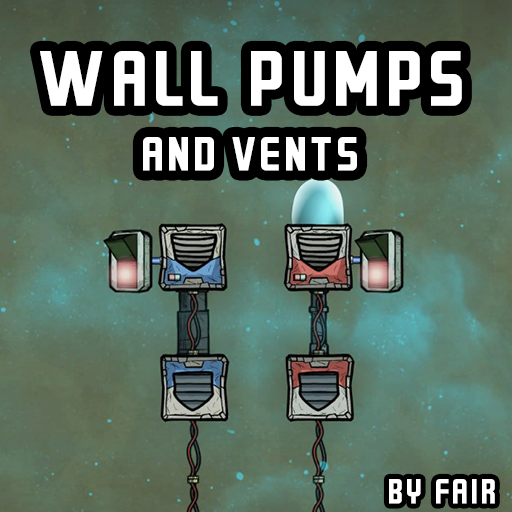
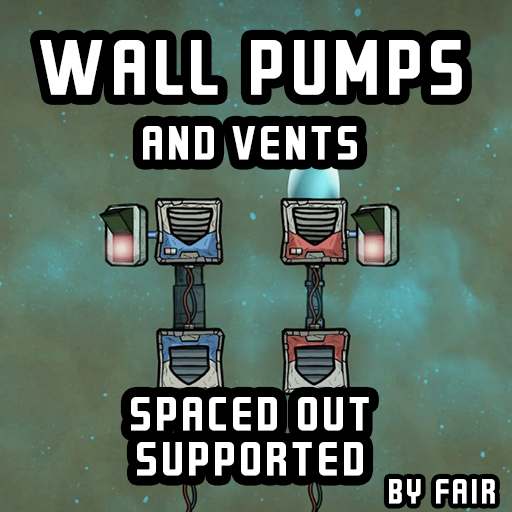
Updates mod to v2.6. Updated to work with new game version 478755.

diff --git a/WallPumps.cs b/WallPumps.cs
@@ -10,7 +10,7 @@ namespace WallPumps
 
         public override void OnLoad(Harmony harmony)
         {
-            Debug.Log(" === WallPumps v. 2.5 OnLoad === ");
+            Debug.Log(" === WallPumps v. 2.6 OnLoad === ");
             harmony.PatchAll();
         }
     }
@@ -20,7 +20,7 @@ namespace WallPumps
     {
         public static void Prefix()
         {
-            Debug.Log(" === WallPumps v. 2.5 Db_Initialize Prefix === ");
+            Debug.Log(" === WallPumps v. 2.6 Db_Initialize Prefix === ");
 
             AddTags.AddStrings(WallPumps.WallMachineRefinedMetals, "Wall Machine Refined Metals");
             AddTags.AddStrings(WallPumps.WallMachineMetals, "Wall Machine Metals");
@@ -29,7 +29,7 @@ namespace WallPumps
 
         public static void Postfix()
         {
-            Debug.Log(" === WallPumps v. 2.5 Db_Initialize Postfix === ");
+            Debug.Log(" === WallPumps v. 2.6 Db_Initialize Postfix === ");
             // Add buildings
             GasWallPump.Setup();
             LiquidWallPump.Setup();
@@ -74,7 +74,7 @@ namespace WallPumps
     //{
     //    public static void Postfix(Game __instance)
     //    {
-    //        Debug.Log(" === WallPumps v. 2.5 OnPrefabInit === ");
+    //        Debug.Log(" === WallPumps v. 2.6 OnPrefabInit === ");
     //    }
     //}
 }

diff --git a/Properties/AssemblyInfo.cs b/Properties/AssemblyInfo.cs
@@ -32,5 +32,5 @@ using System.Runtime.InteropServices;
 // You can specify all the values or you can default the Build and Revision Numbers
 // by using the '*' as shown below:
 // [assembly: AssemblyVersion("1.0.*")]
-[assembly: AssemblyVersion("2.5.0.0")]
+[assembly: AssemblyVersion("2.6.0.0")]
 [assembly: AssemblyFileVersion("1.0.0.0")]

diff --git a/GasWallPump.cs b/GasWallPump.cs
@@ -61,7 +61,6 @@ namespace WallPumps
             def.ObjectLayer = ObjectLayer.Building;
             def.SceneLayer = Grid.SceneLayer.TileMain;
             def.ForegroundLayer = Grid.SceneLayer.TileMain;
-            def.isSolidTile = true;
             return def;
         }
 

diff --git a/GasWallVent.cs b/GasWallVent.cs
@@ -58,7 +58,6 @@ namespace WallPumps
             def.ObjectLayer = ObjectLayer.Building;
             def.SceneLayer = Grid.SceneLayer.TileMain;
             def.ForegroundLayer = Grid.SceneLayer.TileMain;
-            def.isSolidTile = true;
             return def;
         }
 

diff --git a/GasWallVentHighPressure.cs b/GasWallVentHighPressure.cs
@@ -66,7 +66,6 @@ namespace WallPumps
             def.ObjectLayer = ObjectLayer.Building;
             def.SceneLayer = Grid.SceneLayer.TileMain;
             def.ForegroundLayer = Grid.SceneLayer.TileMain;
-            def.isSolidTile = true;
             return def;
         }
 

diff --git a/LiquidWallPump.cs b/LiquidWallPump.cs
@@ -61,7 +61,6 @@ namespace WallPumps
             def.ObjectLayer = ObjectLayer.Building;
             def.SceneLayer = Grid.SceneLayer.TileMain;
             def.ForegroundLayer = Grid.SceneLayer.TileMain;
-            def.isSolidTile = true;
             return def;
         }
 

diff --git a/LiquidWallVent.cs b/LiquidWallVent.cs
@@ -58,7 +58,6 @@ namespace WallPumps
             def.ObjectLayer = ObjectLayer.Building;
             def.SceneLayer = Grid.SceneLayer.TileMain;
             def.ForegroundLayer = Grid.SceneLayer.TileMain;
-            def.isSolidTile = true;
             return def;
         }
 
